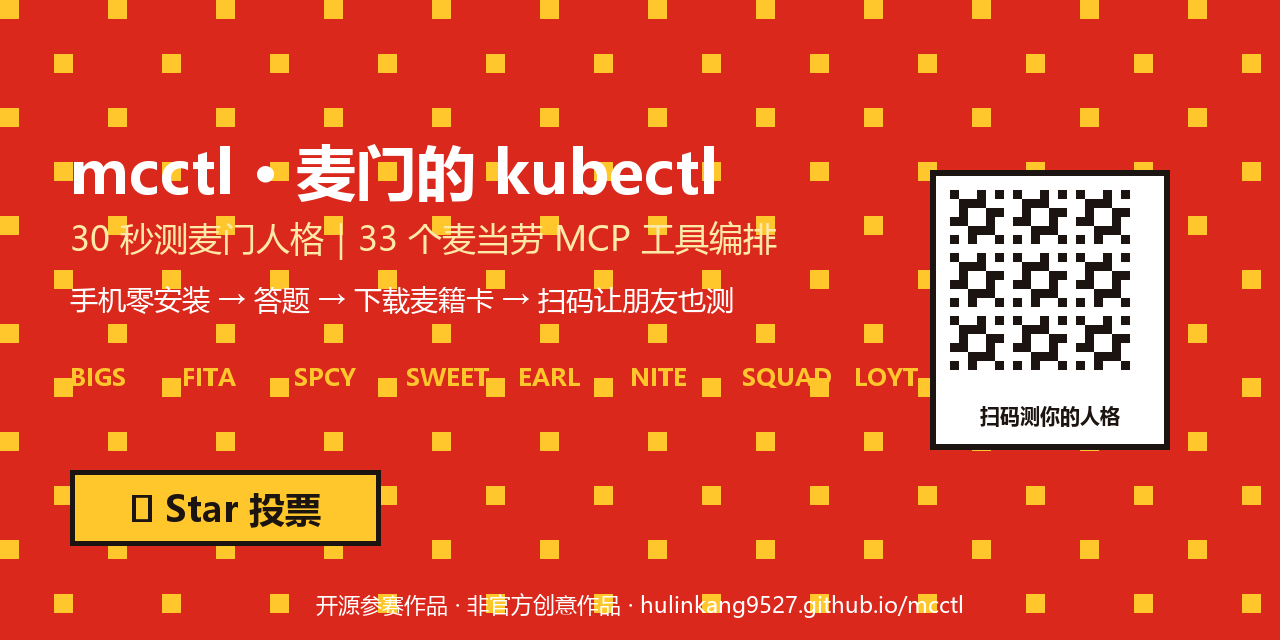
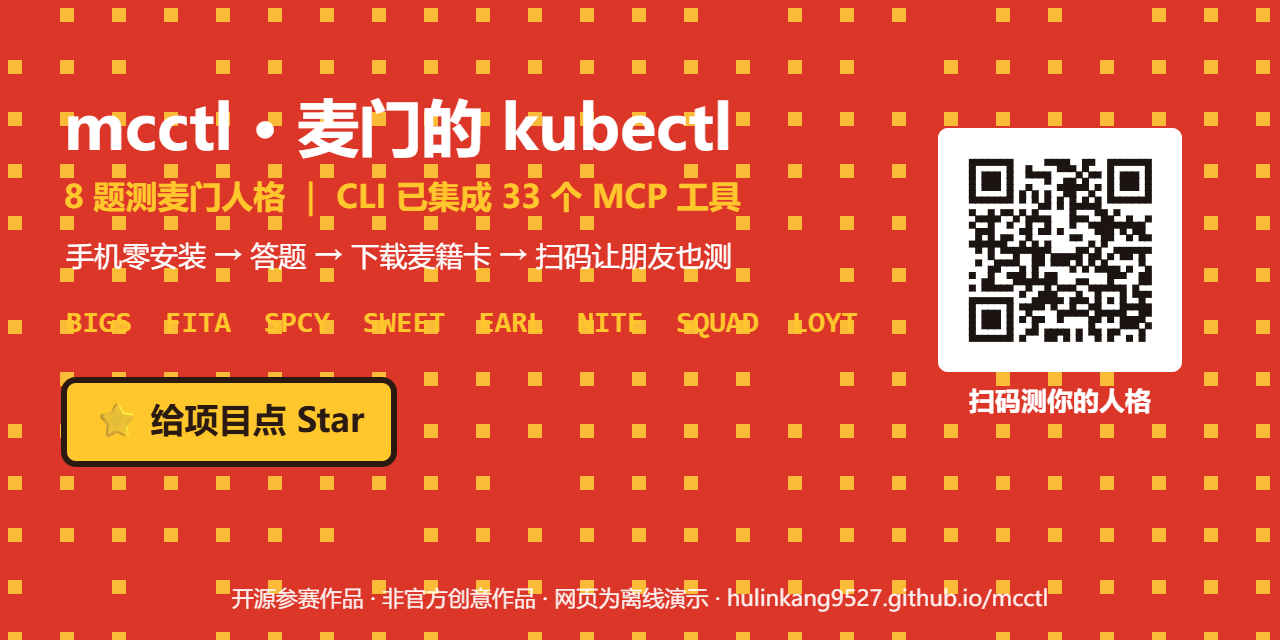
chore: 冲榜硬伤修复 —— 封面统一 8 题、README 安装指令、裂变引导
- og-cover.png 重绘：6 题 → 8 题，终端小窗换成 $ mcctl whoami 演示
- social-preview.png 重绘：去掉「30 秒测」话术，区分「CLI 已集成 33 个 MCP 工具 / 网页为离线演示」，保留扫码与非官方标注
- README：pip install mcd-mcctl（PyPI 未上架）改为源码安装为主 + git+https 一行装，PyPI 方式标注发布流程中
- 麦籍卡底部加低调 Star 引导；分享文案统一为「我是XX（CODE），你呢？」+ 直达链接
- mcctl demo 末尾新增仓库链接与 Star / 网页版提示

diff --git a/web/app.js b/web/app.js
@@ -352,7 +352,7 @@ function drawCard(p) {
   ctx.fillStyle = "#FFFFFF"; ctx.font = "26px monospace";
   ctx.fillText("🍔 mcctl · 麦门的 kubectl", 48, 1253);
   ctx.fillStyle = "#FFC72C"; ctx.font = "bold 26px monospace";
-  ctx.fillText("hulinkang9527.github.io/mcctl", 48, 1294);
+  ctx.fillText("hulinkang9527.github.io/mcctl · 觉得好玩求个⭐", 48, 1294);
   ctx.textBaseline = "alphabetic";
 }
 
@@ -365,15 +365,11 @@ function downloadCard() {
   toast("麦籍卡已下载，快晒到群里 🍔");
 }
 
-// 分享文案 A/B：社交型人格走「组队版」，其余走「挑战版」
+// 分享文案：固定话术「我是XX（CODE），你呢？」+ 直达链接，降低朋友跟测门槛
 function shareText(p) {
   const url = personaUrl(p.code);
-  if (p.code === "SQUAD" || p.code === "NITE") {
-    return `我是「${p.emoji} ${p.name}」——${p.motto}\n` +
-      `来测测你是 8 型麦门人的哪一派，还能一键算麦当劳最省到手价 👉 ${url}`;
-  }
-  return `我在【mcctl 麦门人格测试】里测出是「${p.emoji} ${p.name} ${p.code}」——${p.motto}\n` +
-    `你是哪种麦门人？8 题测，敢晒代号吗 👉 ${url}`;
+  return `我是「${p.emoji} ${p.name} ${p.code}」——${p.motto}，你呢？\n` +
+    `8 题测出你的麦门人格，手机零安装，还能一键算麦当劳最省到手价 👉 ${url}`;
 }
 
 async function share() {

diff --git a/src/mcctl/cli.py b/src/mcctl/cli.py
@@ -832,6 +832,14 @@ def demo_cmd(ctx: typer.Context):
         ui.console.print("  " + s)
     ui.console.print(ui.table_campaigns(out["campaigns"]))
     ui.console.print(ui.render_account(out["points"]))
+    ui.console.print(
+        ui.Panel.fit(
+            "[bold]觉得 mcctl 好玩？[/bold]\n"
+            "⭐ 给项目点个 Star：https://github.com/hulinkang9527/mcctl\n"
+            "🍔 手机零安装网页版（8 题测麦门人格）：https://hulinkang9527.github.io/mcctl/",
+            border_style=ui.MCD_GOLD,
+        )
+    )
 
 
 if __name__ == "__main__":

diff --git a/README.md b/README.md
@@ -45,7 +45,7 @@
   <a href="https://hulinkang9527.github.io/mcctl/">hulinkang9527.github.io/mcctl</a><br />
   <sub>8 题出结果 · 可下载麦籍卡 · 可算好友匹配度（离线 Playground）</sub><br /><br />
   <b>⚡ 一行装上就跑</b><br />
-  <code>pip install mcd-mcctl &amp;&amp; mcctl whoami</code><br /><br />
+  <code>pip install git+https://github.com/hulinkang9527/mcctl.git &amp;&amp; mcctl whoami</code><br /><br />
   <b>🧭 一条命令串演全部能力</b><br />
   <code>mcctl demo</code> — 人格 → 配餐 → 省钱 → 下单演练 → 积分
 </td>
@@ -74,24 +74,19 @@
 > 网页 Playground 为**离线演示**（纯静态、内置示例菜单与价格），用于展示人格测试与配餐逻辑；
 > 真实 MCP 工具调用请在 CLI 实时模式下验证（方式二 / 方式四）。
 
-**方式二（PyPI · 一行命令体验）**：
+**方式二（从源码 · 推荐）**：
 
 ```bash
-pip install mcd-mcctl      # Python 包名为 mcd-mcctl，命令行入口仍为 mcctl
+git clone https://github.com/hulinkang9527/mcctl.git && cd mcctl
+pip install -e .
 mcctl demo                 # 一键串演：人格→配餐→省钱→下单演练→积分
 mcctl whoami               # 8 题测麦麦人格
 mcctl decide -p FITA       # 板烧修行者的命定套餐
 ```
 
-> 说明：PyPI 上的 `mcctl` 包名已被无关的第三方项目占用，所以发行包名为 `mcd-mcctl`；安装后命令行入口仍是 `mcctl`，无需修改使用习惯。
+也可以免 clone 一行安装：`pip install git+https://github.com/hulinkang9527/mcctl.git`。
 
-**方式三（从源码）**：
-
-```bash
-git clone https://github.com/hulinkang9527/mcctl.git && cd mcctl
-pip install -e .
-mcctl demo
-```
+**方式三（PyPI，发布流程中）**：PyPI 包名将是 `mcd-mcctl`（`mcctl` 已被无关项目占用，安装后命令行入口仍是 `mcctl`）。**当前尚未上架，请先用方式二安装**，上架后本节会同步更新。
 
 **方式四（接入真实 MCP）**：到 <https://open.mcd.cn/mcp> 申请 Token，然后 `export MCD_MCP_TOKEN=你的Token && mcctl --live tools`。通用 MCP Client（WorkBuddy / Cursor / VS Code …）直接使用 [`mcp-config.example.json`](mcp-config.example.json)。
 
